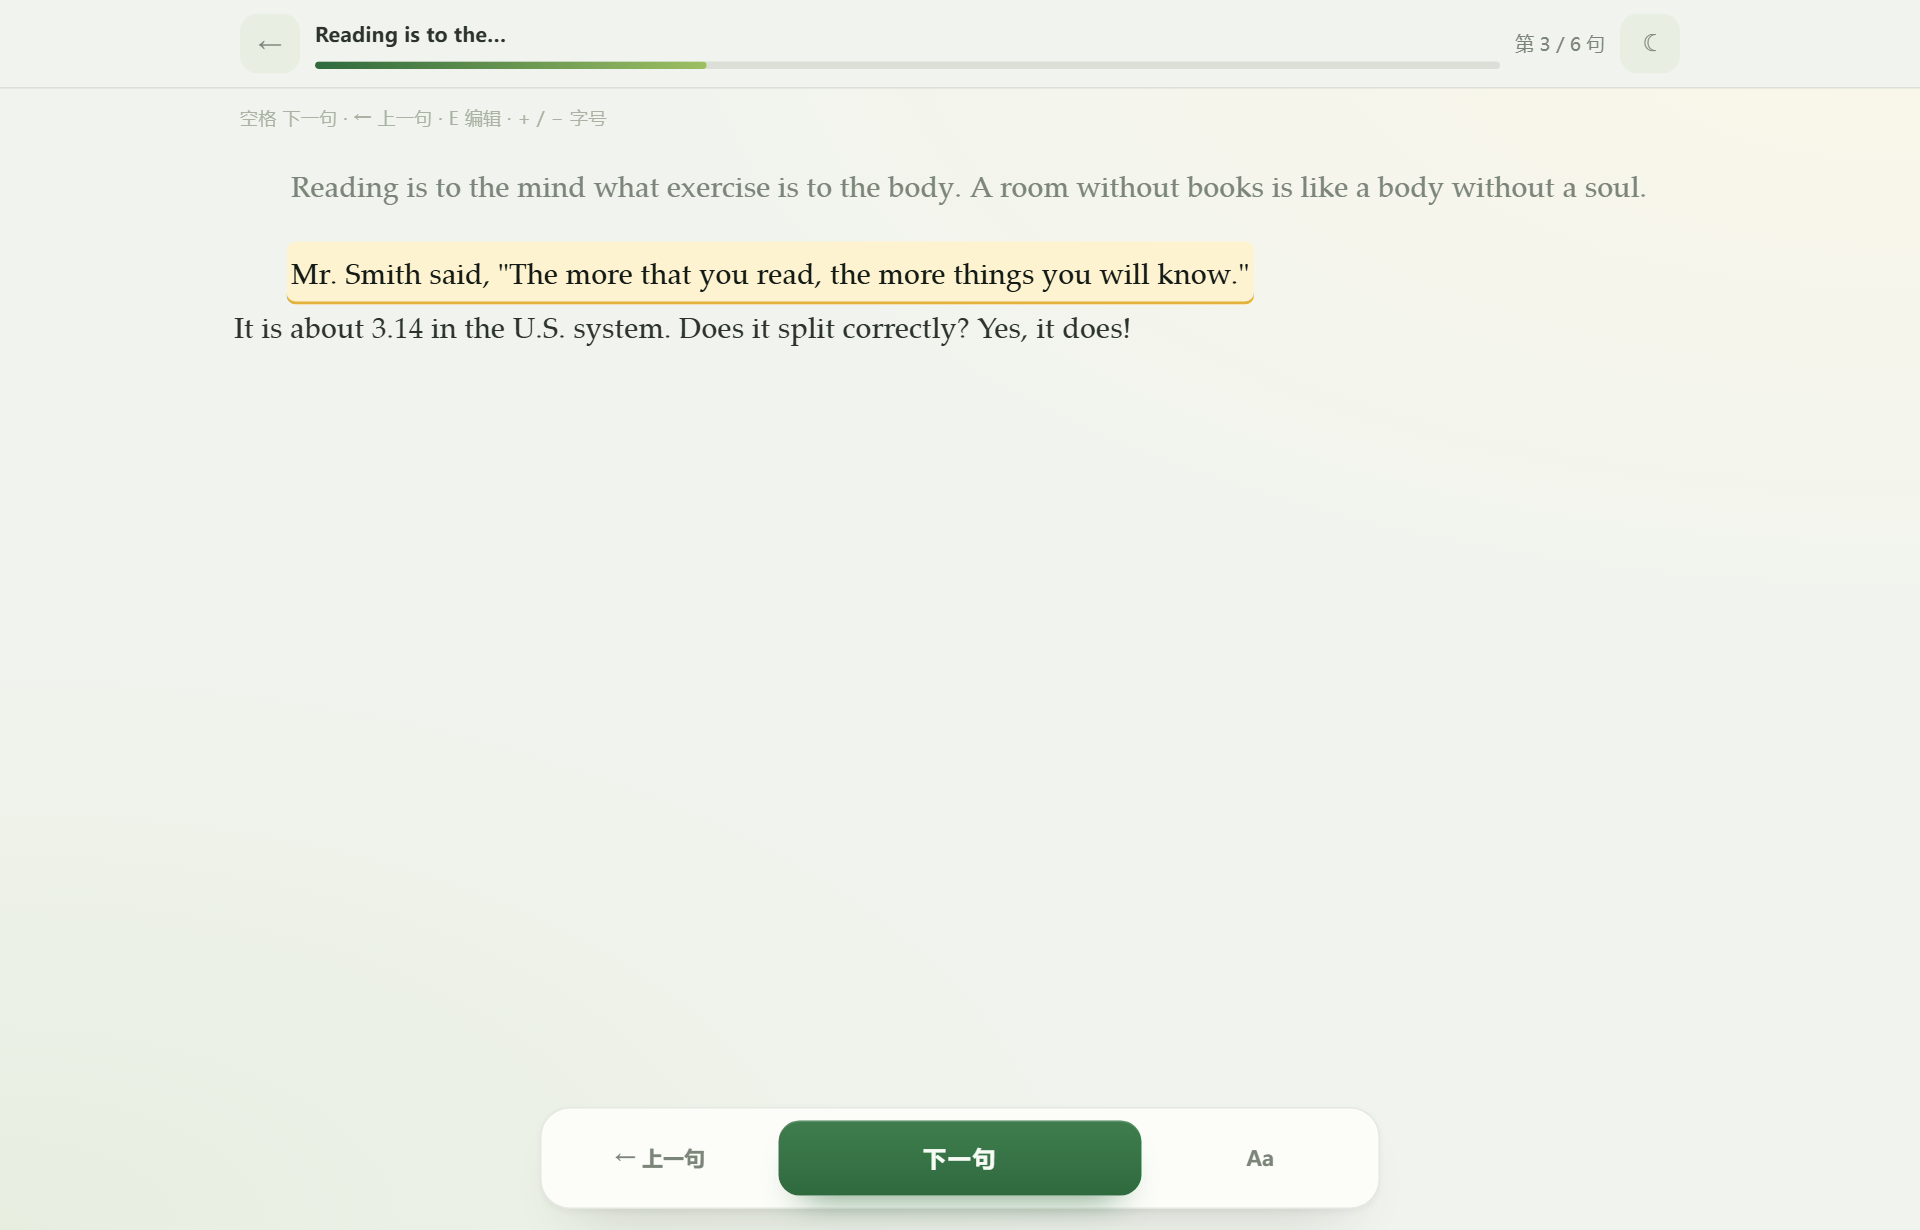
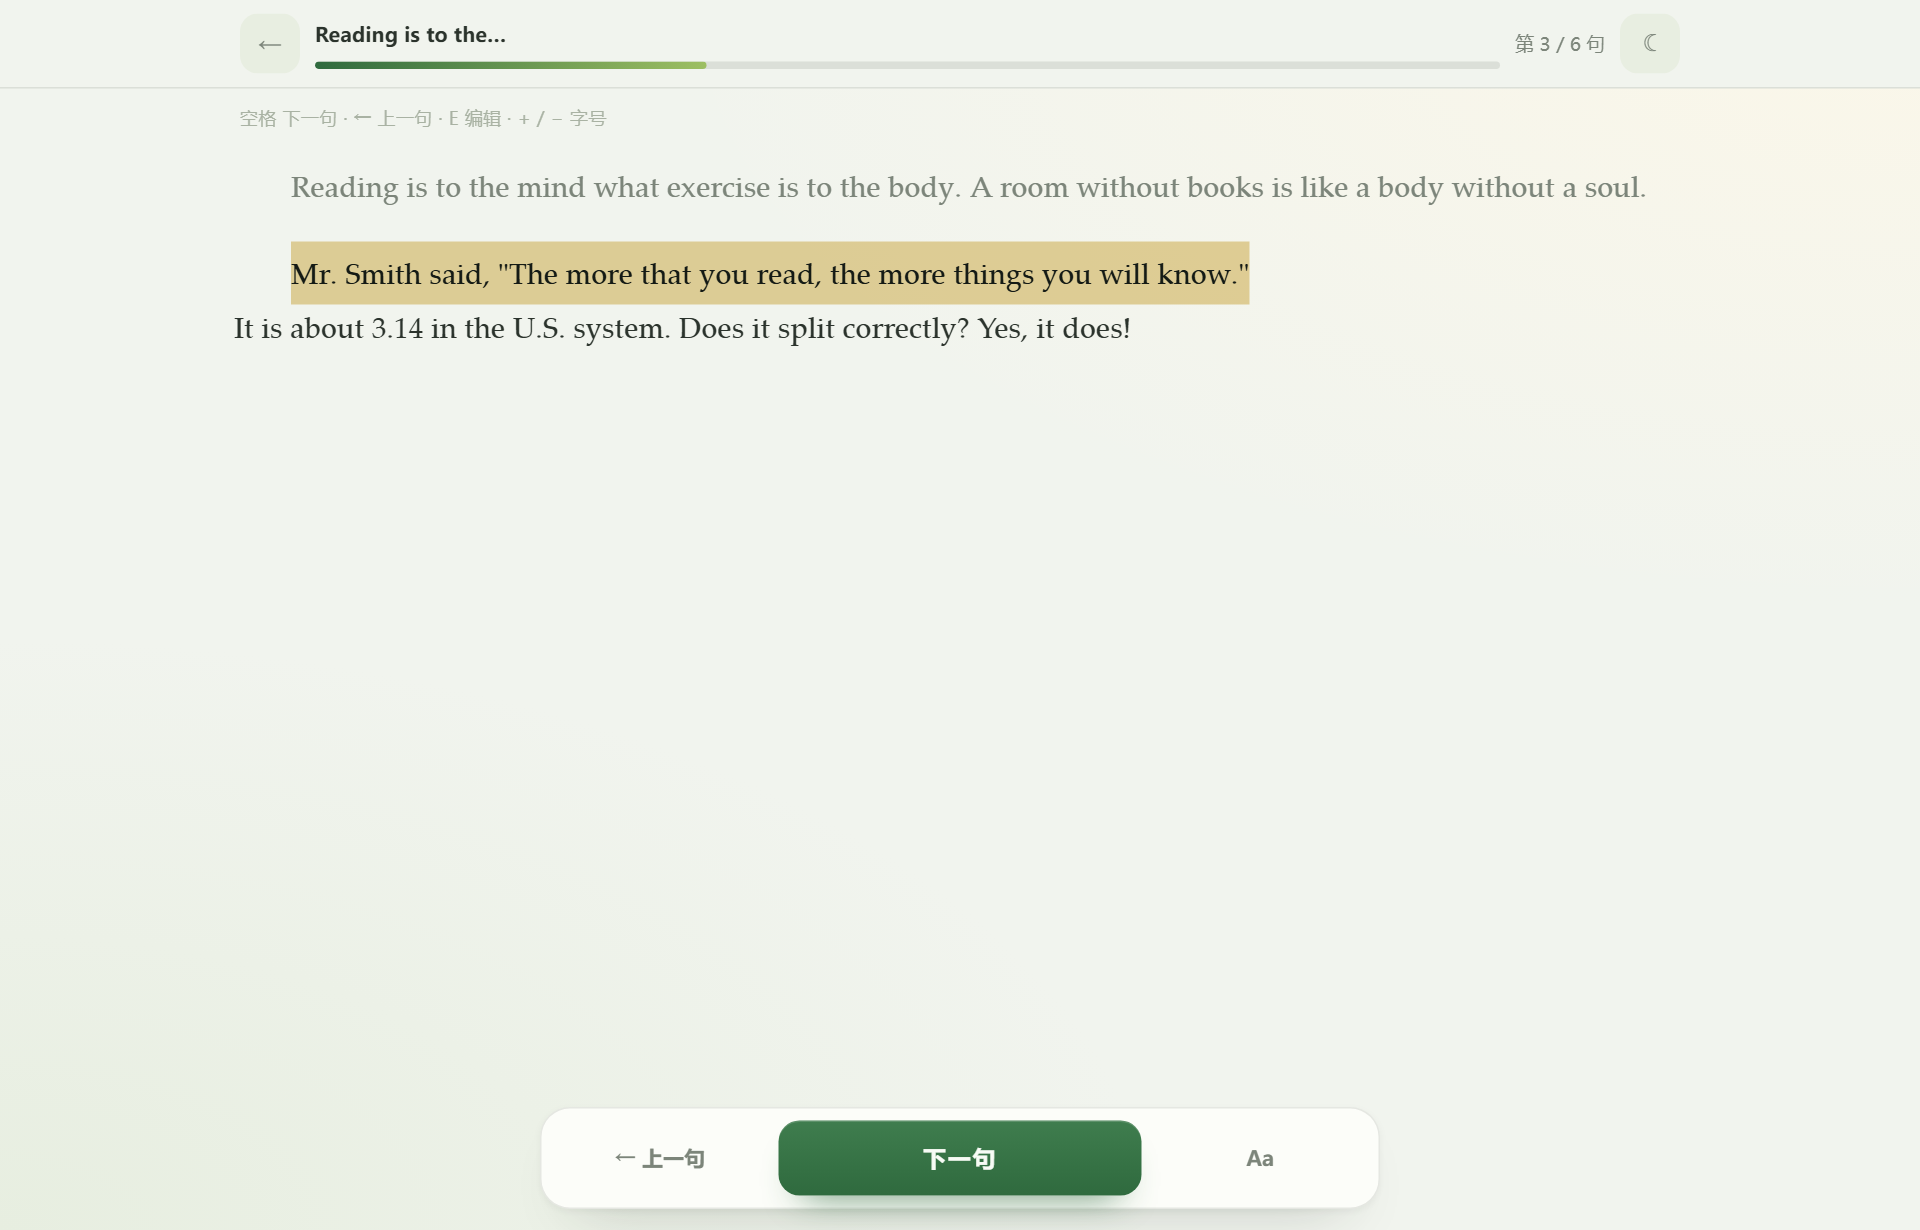
style: 当前句改为选区式高亮带，颜色加深
- 段落模式当前句去掉圆角/内边距/底线，改成紧贴文字的高亮带
- 浅色姜黄、深色暗金，颜色加深不再发浅
- 分句列表当前行底色同步加深
- 更新截图与 README

Changed region(s): [[0.125, 0.1854, 0.6562, 0.2472]]

diff --git a/assets/app.css b/assets/app.css
@@ -34,8 +34,10 @@ html, body { margin: 0; padding: 0; }
   --accent-soft: rgba(63, 125, 78, 0.10);
   --accent-contrast: #f7fbf5;
   --marker: #e2b23c;
-  --current-bg: #fdf3d0;
+  --current-bg: #f7e5ad;
   --current-ink: #141a15;
+  --select-bg: rgba(196, 156, 40, 0.45);
+  --select-ink: #141a15;
   --ring: rgba(63, 125, 78, 0.38);
   --shadow-sm: 0 1px 2px rgba(43, 51, 44, 0.05);
   --shadow-md: 0 18px 40px -26px rgba(30, 42, 31, 0.42), 0 2px 6px rgba(43, 51, 44, 0.05);
@@ -60,8 +62,10 @@ html, body { margin: 0; padding: 0; }
   --accent-soft: rgba(127, 195, 139, 0.12);
   --accent-contrast: #0e1f0f;
   --marker: #e8c25a;
-  --current-bg: #3a3320;
+  --current-bg: #3f3720;
   --current-ink: #f8f5e8;
+  --select-bg: rgba(214, 182, 92, 0.32);
+  --select-ink: #f5f8f0;
   --ring: rgba(127, 195, 139, 0.4);
   --shadow-sm: 0 1px 2px rgba(0, 0, 0, 0.3);
   --shadow-md: 0 18px 40px -24px #000, 0 2px 6px rgba(0, 0, 0, 0.35);
@@ -451,10 +455,10 @@ body[data-view="reader"] #view-reader { display: block; }
 .sentence {
   appearance: none;
   display: inline;
-  margin: -3px -3px;
-  padding: 3px 3px;
+  margin: -3px 0;
+  padding: 3px 0;
   border: 0;
-  border-radius: 6px;
+  border-radius: 0;
   background: transparent;
   color: inherit;
   font: inherit;
@@ -470,10 +474,11 @@ body[data-view="reader"] #view-reader { display: block; }
 .sentence:focus-visible { outline: 2px solid var(--ring); outline-offset: -2px; }
 .sentence.is-past { color: var(--muted); }
 .sentence.is-current {
-  background: var(--current-bg);
-  color: var(--current-ink);
-  box-shadow: inset 0 -2px 0 var(--marker);
+  background: var(--select-bg);
+  color: var(--select-ink);
+  box-shadow: none;
 }
+.sentence.is-current:hover { background: var(--select-bg); }
 [data-indent="on"] .para { text-indent: 2em; }
 .para.is-far-para { opacity: 0.45; }
 [data-focus="off"] .para.is-far-para { opacity: 1; }

diff --git a/README.md b/README.md
@@ -17,7 +17,7 @@
 - **保持原文段落**：粘贴的每一段仍是一整段，句子自然连排，不会把文章拆成一行行
 - **自动分句**：按中英文句末标点切句，引号、括号跟随前句；太长的中文句子再在分号、逗号处拆短
 - **点哪句，从哪句抄**：点一下句子，它变成当前句，前面的句子自动算已抄（变灰）
-- **当前句唯一高亮**：黄色底 + 黄色下划线，一眼锁定
+- **当前句唯一高亮**：像选中文字一样的整块高亮带（浅色为姜黄、深色为暗金），一眼锁定
 - **聚焦模式**：离当前段落较远的段落自动变淡
 - **线性进度**：顶栏「第 3 / 24 句」+ 进度条；「下一句 / 上一句」、空格、方向键依次推进
 
